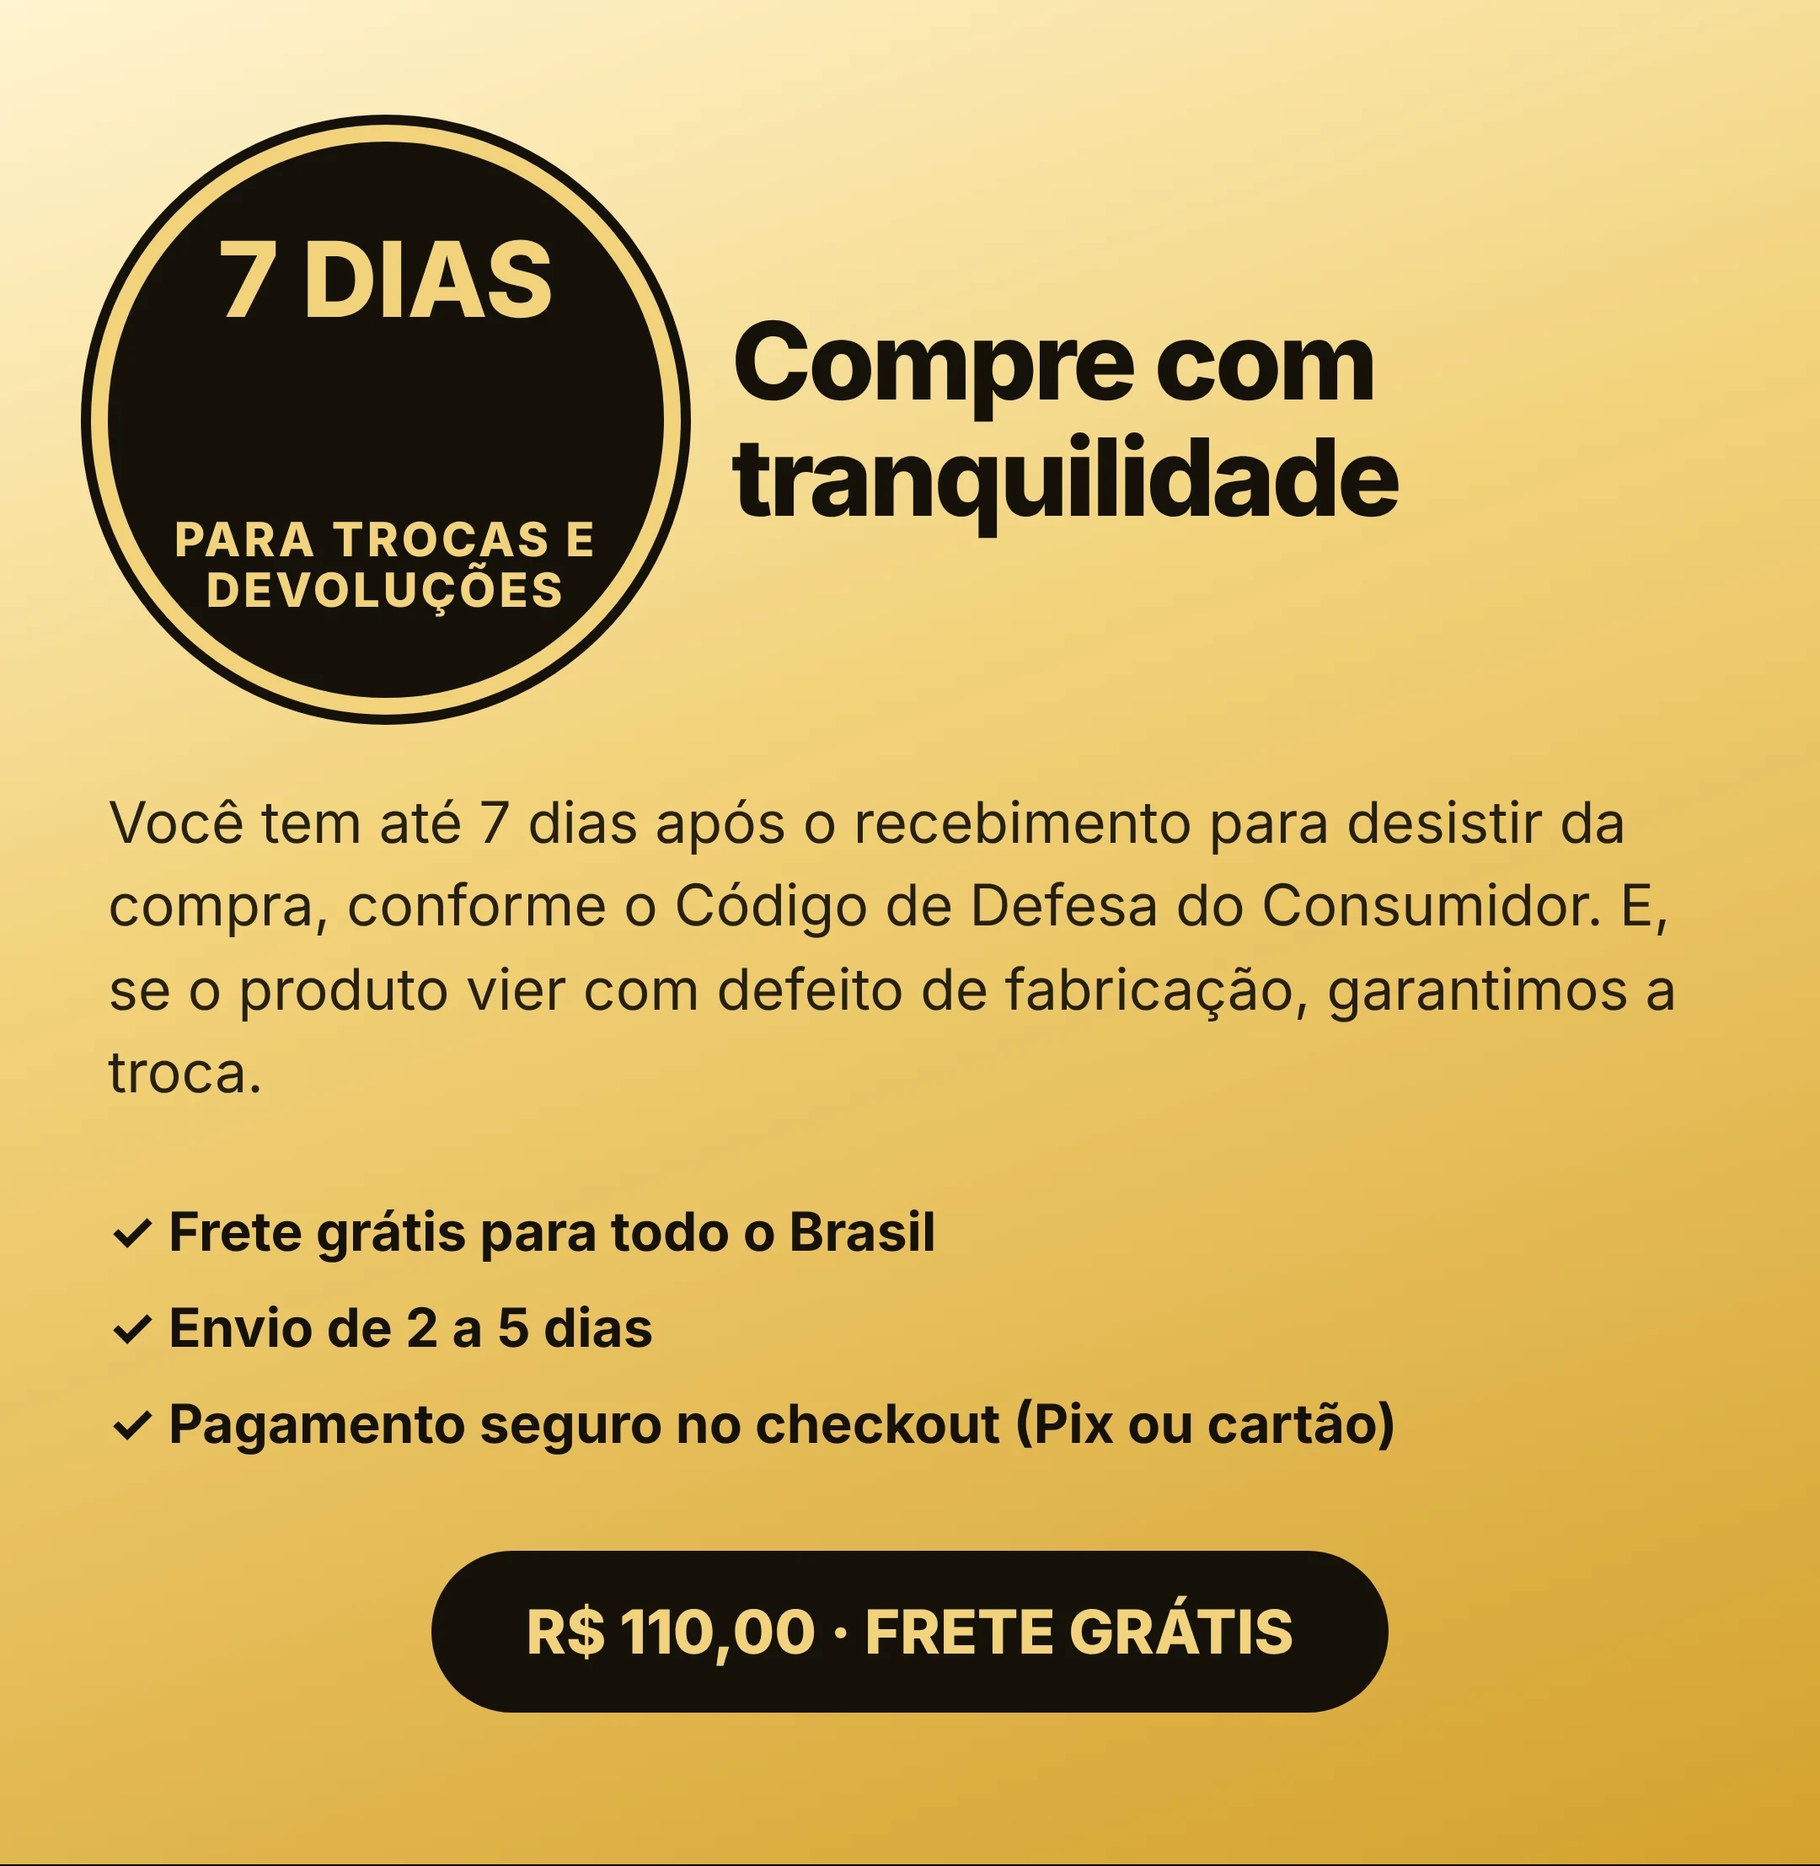
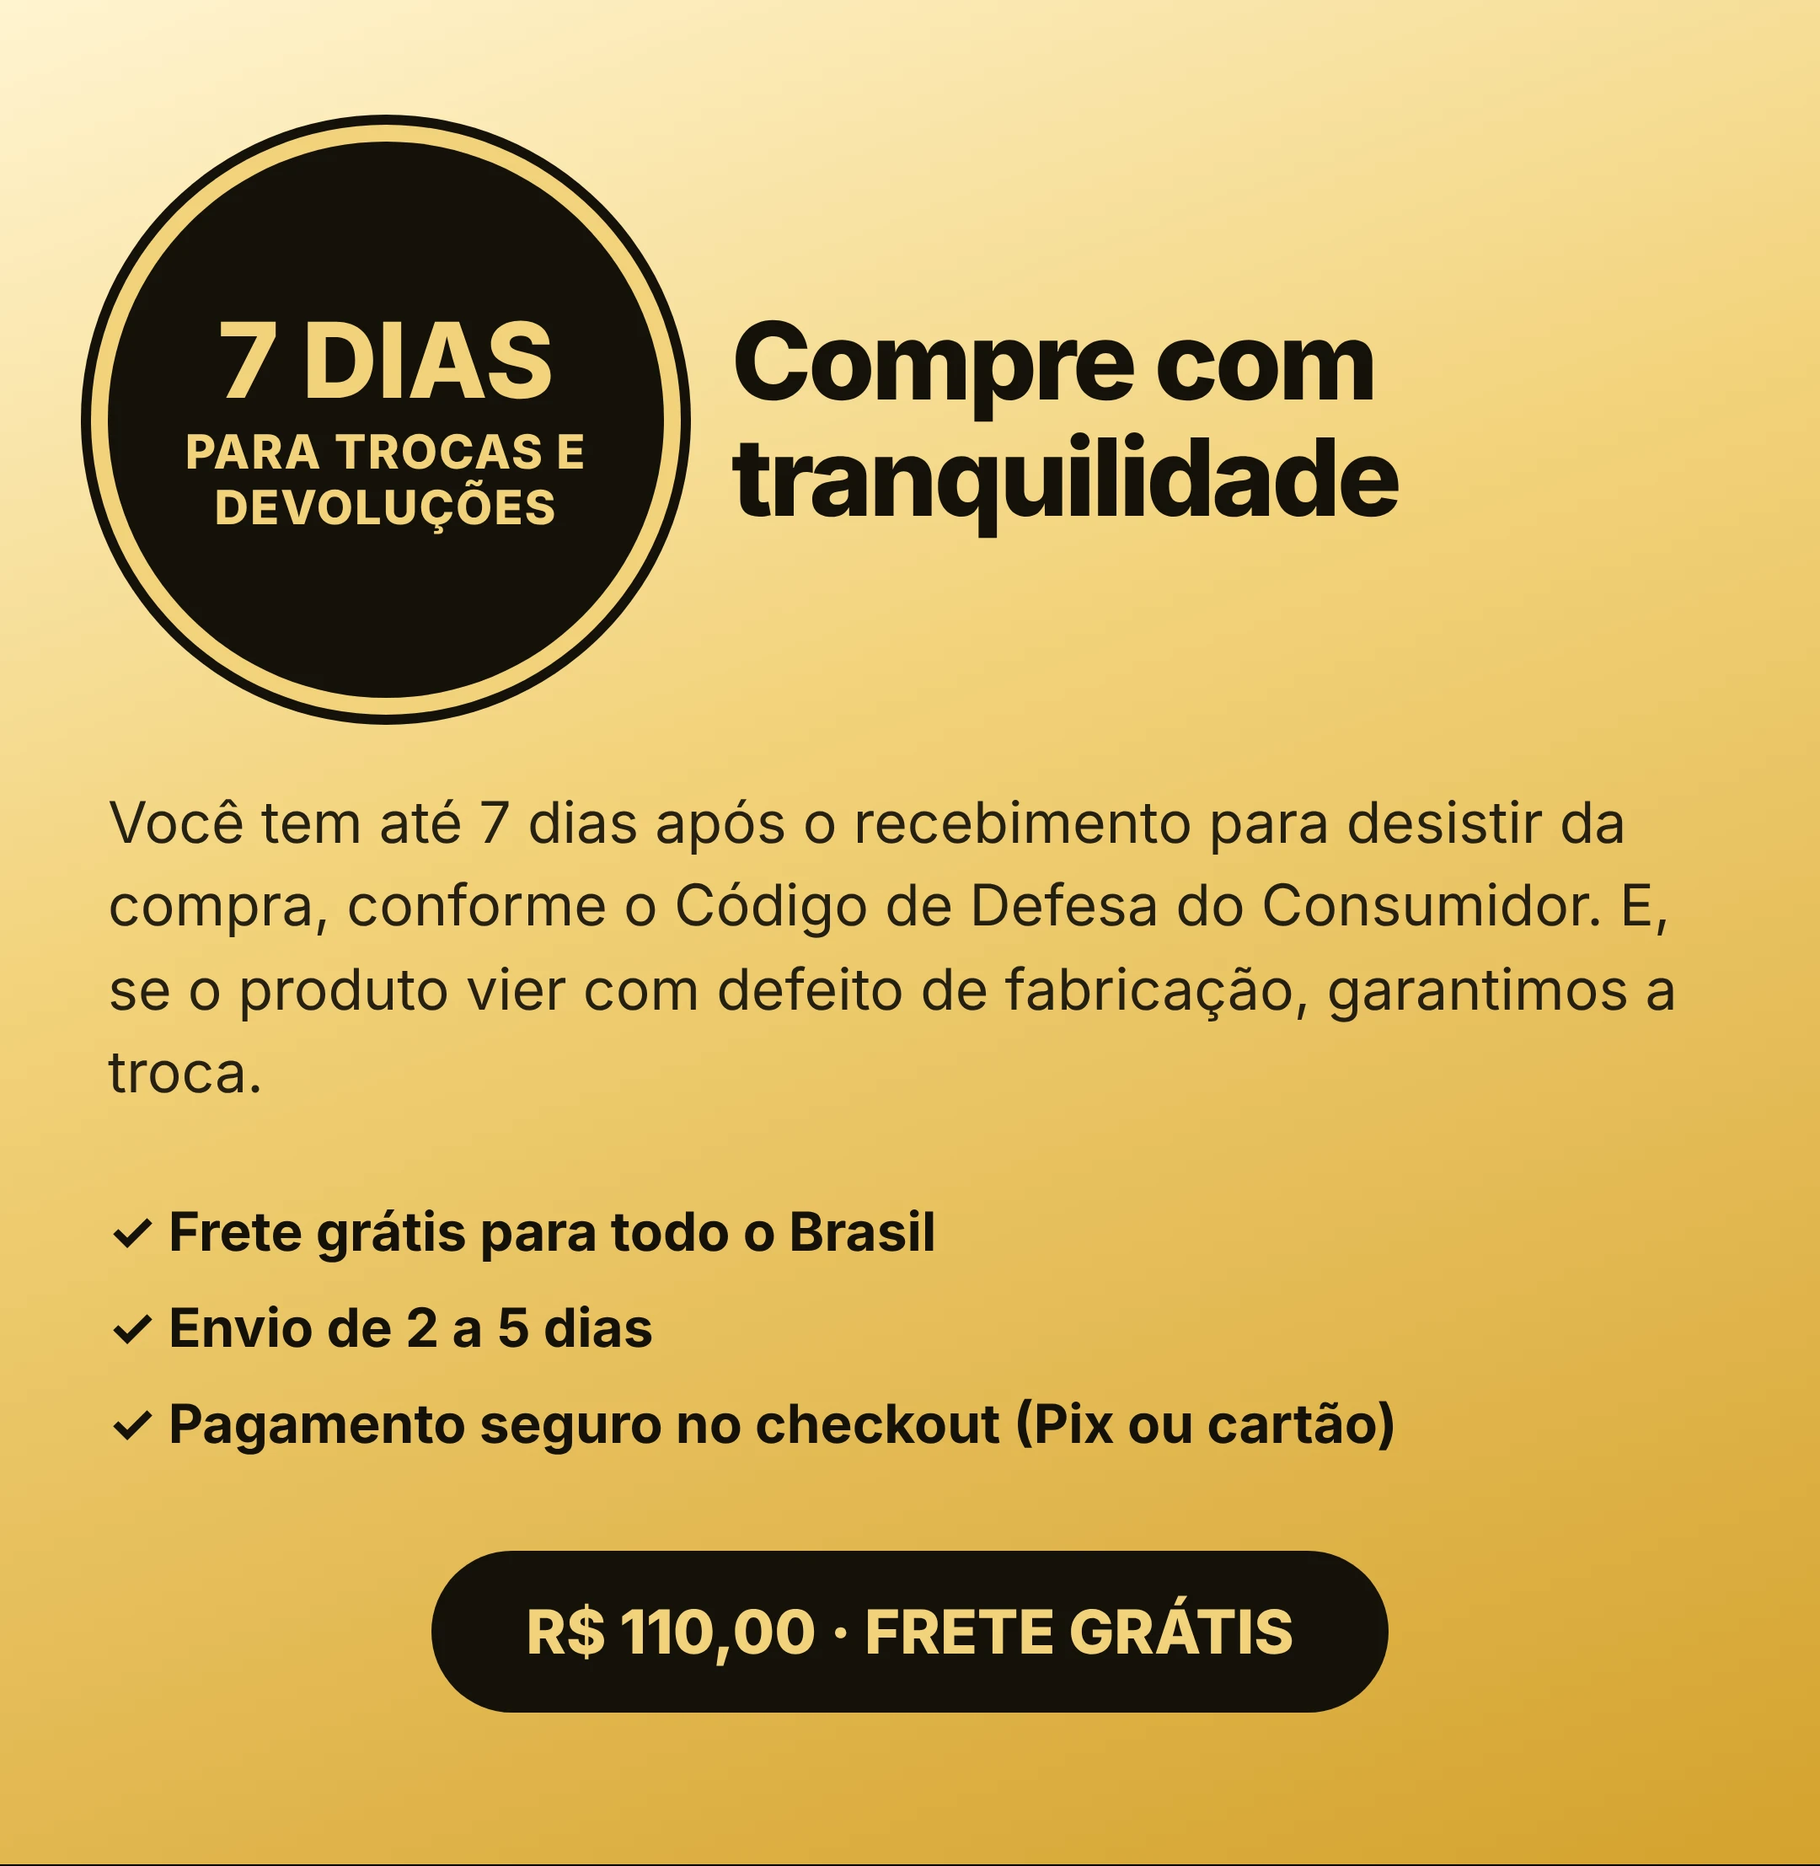
Fundo claro na primeira página, selos com texto colado, menos faixas e versão nas imagens para atualizar o cache
Claude-Session: https://claude.ai/code/session_01KeLqAk6fDKmQByf4pKhdDU

Changed region(s): [[0.0931, 0.1247, 0.3412, 0.3428]]

diff --git a/index.html b/index.html
@@ -1,7 +1,7 @@
 <!doctype html>
-<html lang="pt-BR"><head><meta charset="utf-8"><meta name="viewport" content="width=device-width,initial-scale=1"><meta name="theme-color" content="#faf8f3"><title>Escova Lisa Pro | Escova Alisadora 5 em 1</title><meta name="description" content="Escova Alisadora 5 em 1: alisa, escova e finaliza em um só passo. 5 níveis de temperatura, bivolt automático e frete grátis. R$ 110,00."><link rel="stylesheet" href="styles.css"><link rel="preload" as="image" href="gallery-01.webp"><script src="data.js" defer></script><script src="app.js" defer></script></head>
+<html lang="pt-BR"><head><meta charset="utf-8"><meta name="viewport" content="width=device-width,initial-scale=1"><meta name="theme-color" content="#faf8f3"><title>Escova Lisa Pro | Escova Alisadora 5 em 1</title><meta name="description" content="Escova Alisadora 5 em 1: alisa, escova e finaliza em um só passo. 5 níveis de temperatura, bivolt automático e frete grátis. R$ 110,00."><link rel="stylesheet" href="styles.css?v=14"><link rel="preload" as="image" href="gallery-01.webp?v=14"><script src="data.js?v=14" defer></script><script src="app.js?v=14" defer></script></head>
 <body><div class="topbar">Alisa, escova e finaliza em um só passo</div><header class="header"><span class="header-note">Cabelo liso e macio<br>todos os dias</span></header>
-<main class="layout"><div class="left"><section class="gallery" aria-label="Imagens do produto"><div class="gallery-main"><img id="main-image" src="gallery-01.webp" alt="Escova Alisadora 5 em 1 — imagem principal" width="900" height="900" fetchpriority="high"><span class="gallery-label">ESCOVA LISA PRO</span></div><div class="thumbnails"><button class="thumb" type="button" aria-label="Ver imagem 1" aria-pressed="true"><img src="gallery-01.webp" alt="Miniatura 1" width="900" height="900" decoding="async"></button><button class="thumb" type="button" aria-label="Ver imagem 2" aria-pressed="false"><img src="gallery-02.webp" alt="Miniatura 2" width="900" height="900" decoding="async"></button><button class="thumb" type="button" aria-label="Ver imagem 3" aria-pressed="false"><img src="gallery-03.webp" alt="Miniatura 3" width="900" height="1200" decoding="async"></button></div><p class="gallery-caption">Selecione uma imagem para conhecer os detalhes.</p></section>
-<section class="description" aria-labelledby="description-heading"><div class="section-heading"><div><span class="eyebrow">Conheça cada detalhe</span><h2 id="description-heading">Cabelo liso, sem complicação.</h2></div><span class="number" aria-hidden="true">01</span></div><div class="story"><figure><img src="banner-01.webp" width="2160" alt="Oferta Escova Alisadora 5 em 1" loading="lazy" decoding="async"></figure><figure class="has-seal"><img src="banner-02.webp" width="2160" alt="Cabelos lisos e impecáveis todos os dias" loading="lazy" decoding="async"><img class="seal-anim" src="seal-niveis.png" alt="" aria-hidden="true" style="left:59.815%;top:54.306%;width:25.741%" loading="lazy"></figure><figure><img src="banner-03.webp" width="2160" alt="Cabelos lisos em minutos" loading="lazy" decoding="async"></figure><figure><video id="produto-video" controls playsinline preload="metadata" poster="poster.jpg"><source src="video-escova.webm" type="video/webm"><source src="video-escova.mp4" type="video/mp4"></video></figure><figure><img src="banner-04.webp" width="2160" alt="Prática, potente e fácil de usar" loading="lazy" decoding="async"></figure><div class="mid-cta"><a class="cta" href="https://pay.kaiross.com.br/dmLbLVXUfgyq">COMPRAR AGORA</a><p>Frete grátis · R$ 110,00</p></div><figure class="has-seal"><img src="banner-05.webp" width="2160" alt="Funciona em todos os tipos de cabelo" loading="lazy" decoding="async"><img class="seal-anim" src="seal-bivolt.png" alt="" aria-hidden="true" style="left:70.463%;top:70.748%;width:22.037%" loading="lazy"></figure><figure><img src="banner-10.webp" width="2160" alt="Escova Lisa Pro" loading="lazy" decoding="async"></figure><figure><img src="banner-06.webp" width="2160" alt="Por que a Escova Lisa Pro é diferente" loading="lazy" decoding="async"></figure><figure><img src="banner-07.webp" width="2160" alt="Do cabelo bagunçado ao liso em minutos" loading="lazy" decoding="async"></figure><div class="mid-cta"><a class="cta" href="https://pay.kaiross.com.br/dmLbLVXUfgyq">COMPRAR AGORA</a><p>Frete grátis · R$ 110,00</p></div><figure><img src="banner-08.webp" width="2160" alt="7 dias para trocas e devoluções" loading="lazy" decoding="async"></figure><figure><img src="banner-09.webp" width="2160" alt="Dúvidas frequentes e especificações" loading="lazy" decoding="async"></figure></div></section>
+<main class="layout"><div class="left"><section class="gallery" aria-label="Imagens do produto"><div class="gallery-main"><img id="main-image" src="gallery-01.webp?v=14" alt="Escova Alisadora 5 em 1 — imagem principal" width="900" height="900" fetchpriority="high"><span class="gallery-label">ESCOVA LISA PRO</span></div><div class="thumbnails"><button class="thumb" type="button" aria-label="Ver imagem 1" aria-pressed="true"><img src="gallery-01.webp?v=14" alt="Miniatura 1" width="900" height="900" decoding="async"></button><button class="thumb" type="button" aria-label="Ver imagem 2" aria-pressed="false"><img src="gallery-02.webp?v=14" alt="Miniatura 2" width="900" height="900" decoding="async"></button><button class="thumb" type="button" aria-label="Ver imagem 3" aria-pressed="false"><img src="gallery-03.webp?v=14" alt="Miniatura 3" width="900" height="1200" decoding="async"></button></div><p class="gallery-caption">Selecione uma imagem para conhecer os detalhes.</p></section>
+<section class="description" aria-labelledby="description-heading"><div class="section-heading"><div><span class="eyebrow">Conheça cada detalhe</span><h2 id="description-heading">Cabelo liso, sem complicação.</h2></div><span class="number" aria-hidden="true">01</span></div><div class="story"><figure><img src="banner-01.webp?v=14" width="2160" alt="Oferta Escova Alisadora 5 em 1" loading="lazy" decoding="async"></figure><figure class="has-seal"><img src="banner-02.webp?v=14" width="2160" alt="Cabelos lisos e impecáveis todos os dias" loading="lazy" decoding="async"><img class="seal-anim" src="seal-niveis.png?v=14" alt="" aria-hidden="true" style="left:59.815%;top:54.306%;width:25.741%" loading="lazy"></figure><figure><img src="banner-03.webp?v=14" width="2160" alt="Cabelos lisos em minutos" loading="lazy" decoding="async"></figure><figure><video id="produto-video" controls playsinline preload="metadata" poster="poster.jpg"><source src="video-escova.webm" type="video/webm"><source src="video-escova.mp4" type="video/mp4"></video></figure><figure><img src="banner-04.webp?v=14" width="2160" alt="Prática, potente e fácil de usar" loading="lazy" decoding="async"></figure><div class="mid-cta"><a class="cta" href="https://pay.kaiross.com.br/dmLbLVXUfgyq">COMPRAR AGORA</a><p>Frete grátis · R$ 110,00</p></div><figure class="has-seal"><img src="banner-05.webp?v=14" width="2160" alt="Funciona em todos os tipos de cabelo" loading="lazy" decoding="async"><img class="seal-anim" src="seal-bivolt.png?v=14" alt="" aria-hidden="true" style="left:70.463%;top:70.748%;width:22.037%" loading="lazy"></figure><figure><img src="banner-10.webp?v=14" width="2160" alt="Escova Lisa Pro" loading="lazy" decoding="async"></figure><figure><img src="banner-06.webp?v=14" width="2160" alt="Por que a Escova Lisa Pro é diferente" loading="lazy" decoding="async"></figure><figure><img src="banner-07.webp?v=14" width="2160" alt="Do cabelo bagunçado ao liso em minutos" loading="lazy" decoding="async"></figure><div class="mid-cta"><a class="cta" href="https://pay.kaiross.com.br/dmLbLVXUfgyq">COMPRAR AGORA</a><p>Frete grátis · R$ 110,00</p></div><figure><img src="banner-08.webp?v=14" width="2160" alt="7 dias para trocas e devoluções" loading="lazy" decoding="async"></figure><figure><img src="banner-09.webp?v=14" width="2160" alt="Dúvidas frequentes e especificações" loading="lazy" decoding="async"></figure></div></section>
 <section class="reviews" id="reviews" aria-labelledby="reviews-heading" hidden><div class="section-heading"><div><span class="eyebrow">Avaliações de clientes</span><h2 id="reviews-heading">Quem comprou, avaliou.</h2></div><div class="review-controls"><button type="button" class="arrow" id="previous-review" aria-label="Depoimento anterior">←</button><button type="button" class="arrow" id="next-review" aria-label="Próximo depoimento">→</button></div></div><p class="review-intro">Avaliações reais de clientes que compraram em nossa loja, sobre a entrega e a experiência de compra.</p><div class="review-grid" id="review-grid" tabindex="0" role="region" aria-label="Depoimentos de clientes" aria-roledescription="carrossel"></div><p class="review-status" id="review-status" aria-live="polite"></p></section><div class="closing"><p>Praticidade para ter o cabelo liso todos os dias.</p><a class="cta" href="https://pay.kaiross.com.br/dmLbLVXUfgyq">COMPRAR AGORA</a></div><div class="bottom">Escova Lisa Pro · Escova Alisadora 5 em 1</div></div>
 <aside class="offer" aria-label="Oferta da escova alisadora"><div class="offer-top"><span class="offer-tag">SUA NOVA ALIADA</span></div><h1>Escova Alisadora<br>5 em 1<span>Escova Lisa Pro</span></h1><p class="offer-copy">Alisa e escova em um único movimento, com 5 níveis de temperatura e bivolt automático. Praticidade em casa e em viagens.</p><div class="price-box"><div class="price-label">Preço especial</div><div class="price-old">De R$ 126,50</div><div class="price"><small>R$</small> 110,00</div><div class="payment">Sua Escova Lisa Pro, pronta para acompanhar você.</div></div><a class="cta" href="https://pay.kaiross.com.br/dmLbLVXUfgyq">COMPRAR AGORA</a><p class="shipping"><span aria-hidden="true">✓</span> Frete grátis para todo o Brasil</p><div class="offer-benefits"><div class="benefit"><svg viewBox="0 0 24 24" fill="none" stroke="currentColor" stroke-width="1.5" aria-hidden="true"><path d="M3 6h11v11H3zM14 10h4l3 4v3h-7"/><circle cx="7" cy="18" r="2"/><circle cx="18" cy="18" r="2"/></svg><strong>Envio de 2 a 5 dias</strong>Praticidade desde a compra</div><div class="benefit"><svg viewBox="0 0 24 24" fill="none" stroke="currentColor" stroke-width="1.5" aria-hidden="true"><path d="M12 3l8 3v6c0 5-8 9-8 9s-8-4-8-9V6zM8 12l3 3 5-6"/></svg><strong>Garantia em nossa loja</strong>7 dias para trocas e devoluções</div></div></aside></main><div class="sticky-buy" aria-label="Comprar"><div><s>R$ 126,50</s><strong>R$ 110,00</strong></div><a class="cta" href="https://pay.kaiross.com.br/dmLbLVXUfgyq">COMPRAR AGORA</a></div></body></html>

diff --git a/data.js b/data.js
@@ -1,1 +1,1 @@
-window.pageData={"gallery":[{"file":"gallery-01.webp","width":900,"height":900},{"file":"gallery-02.webp","width":900,"height":900},{"file":"gallery-03.webp","width":900,"height":1200}],"reviews":[{"name": "Luciano Monteiro", "rating": 4, "text": "Fico muito contente de saber que a loja é confiável. Estava com receio de comprar mas valeu muito apena! brigadaoo tmj!"}, {"name": "Maria Galvão", "rating": 5, "text": "Muito bom, o produto chegou antes do previsto e exatamente como mostrado no site.. Bom msm.."}, {"name": "Raiam Maldonado", "rating": 5, "text": "Pedido chegou ok, bem embalado, o que pedi e no prazo que deram"}, {"name": "Heitor Alvim", "rating": 5, "text": "Conheci a loja através de amigos que me recomendaram, preço acessível, qualidade e transparencia nas informações é boa. O produto é magnifico"}, {"name": "Bianca Nunes", "rating": 5, "text": "Pr Estou mega satisfeita. Esperava qualidade mas isso me surpreendeu.. Mt mt bom!"}, {"name": "Gael Ourique", "rating": 5, "text": "Uau, assim que chegou vim escrever um comentário. Prazo de entrega rápido, muito legal, muito igual ao anuncio"}, {"name": "Gabrielle Silva", "rating": 4, "text": "Gostaria agradecer pelo produto de qualidade que recebi. Muito bom. Passando também para pontuar a eficiência na entrega. Que Deus os abençoe hj e sempre."}, {"name": "Natasha Maia", "rating": 5, "text": "Muito dez!"}, {"name": "Susane Goulart", "rating": 5, "text": "A entrega foi muito rápidA e amei super recomendo... até a próxima, pois vou comprar de novo😅😁 Parabéns essa loja sensacional 👏👏"}]};
+window.pageData={"gallery":[{"file":"gallery-01.webp?v=14","width":900,"height":900},{"file":"gallery-02.webp?v=14","width":900,"height":900},{"file":"gallery-03.webp?v=14","width":900,"height":1200}],"reviews":[{"name": "Luciano Monteiro", "rating": 4, "text": "Fico muito contente de saber que a loja é confiável. Estava com receio de comprar mas valeu muito apena! brigadaoo tmj!"}, {"name": "Maria Galvão", "rating": 5, "text": "Muito bom, o produto chegou antes do previsto e exatamente como mostrado no site.. Bom msm.."}, {"name": "Raiam Maldonado", "rating": 5, "text": "Pedido chegou ok, bem embalado, o que pedi e no prazo que deram"}, {"name": "Heitor Alvim", "rating": 5, "text": "Conheci a loja através de amigos que me recomendaram, preço acessível, qualidade e transparencia nas informações é boa. O produto é magnifico"}, {"name": "Bianca Nunes", "rating": 5, "text": "Pr Estou mega satisfeita. Esperava qualidade mas isso me surpreendeu.. Mt mt bom!"}, {"name": "Gael Ourique", "rating": 5, "text": "Uau, assim que chegou vim escrever um comentário. Prazo de entrega rápido, muito legal, muito igual ao anuncio"}, {"name": "Gabrielle Silva", "rating": 4, "text": "Gostaria agradecer pelo produto de qualidade que recebi. Muito bom. Passando também para pontuar a eficiência na entrega. Que Deus os abençoe hj e sempre."}, {"name": "Natasha Maia", "rating": 5, "text": "Muito dez!"}, {"name": "Susane Goulart", "rating": 5, "text": "A entrega foi muito rápidA e amei super recomendo... até a próxima, pois vou comprar de novo😅😁 Parabéns essa loja sensacional 👏👏"}]};
